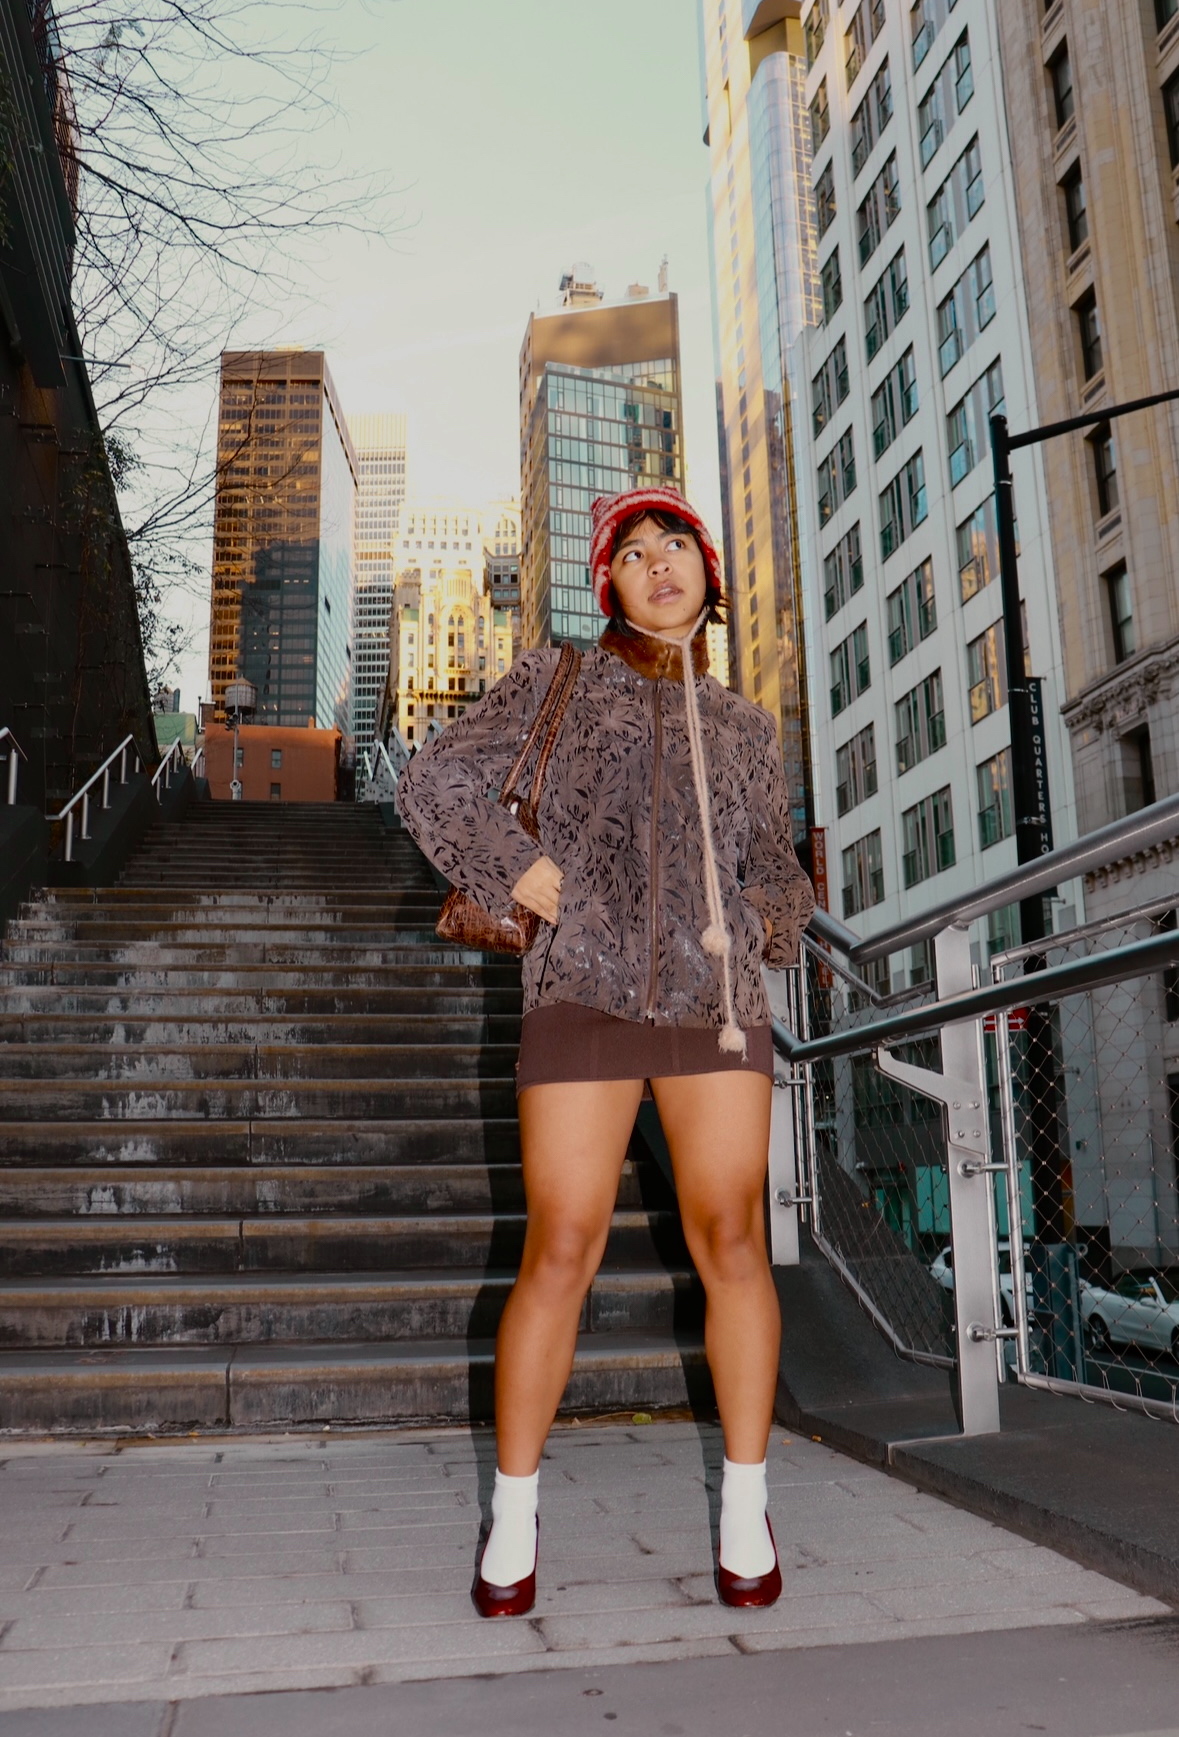
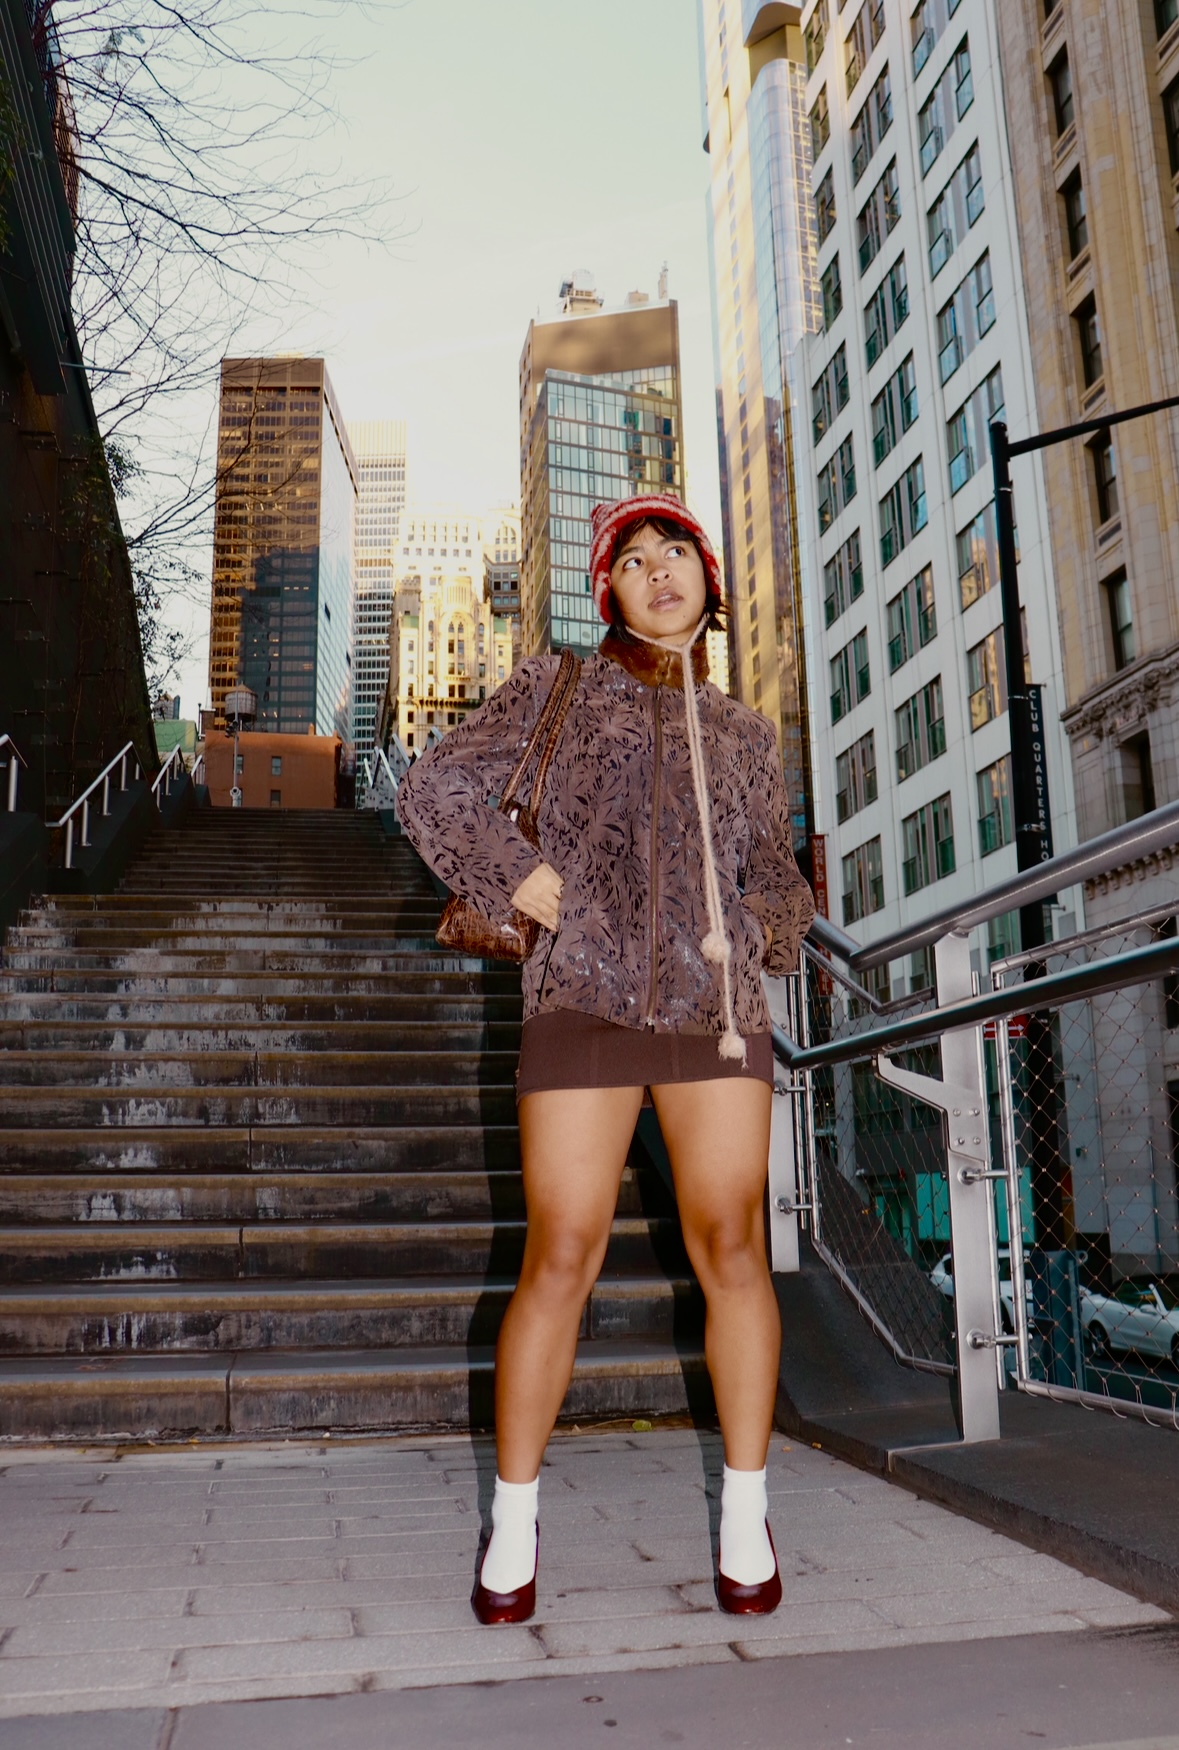
Tweaked practical quiz and added different images

diff --git a/templates/layout.html b/templates/layout.html
@@ -28,7 +28,7 @@
                         <a class="nav-link {% if request.endpoint == 'learn' %}active{% endif %}" href="{{ url_for('learn', lesson_id=1) }}">Learn</a>
                     </li>
                     <li class="nav-item">
-                        <a class="nav-link" href="#">Quiz</a>
+                        <a class="nav-link {% if request.endpoint == 'quiz' %}active{% endif %}" href="{{ url_for('quiz', question_id=1) }}">Quiz</a>
                     </li>
                 </ul>
             </div>

diff --git a/static/js/practical_quiz.js b/static/js/practical_quiz.js
@@ -1,12 +1,12 @@
 // Target values that represent the correct edit
 const targetValues = {
-    exposure: -20,
-    highlights: -60,
-    shadows: -30,
-    contrast: 10,
+    exposure: -30,
+    highlights: 20,
+    shadows: -15,
+    contrast: 5,
     saturation: 10,
-    warmth: 60,
-    tint: -60
+    warmth: 30,
+    tint: 15
 };
 
 // Current user filter values
